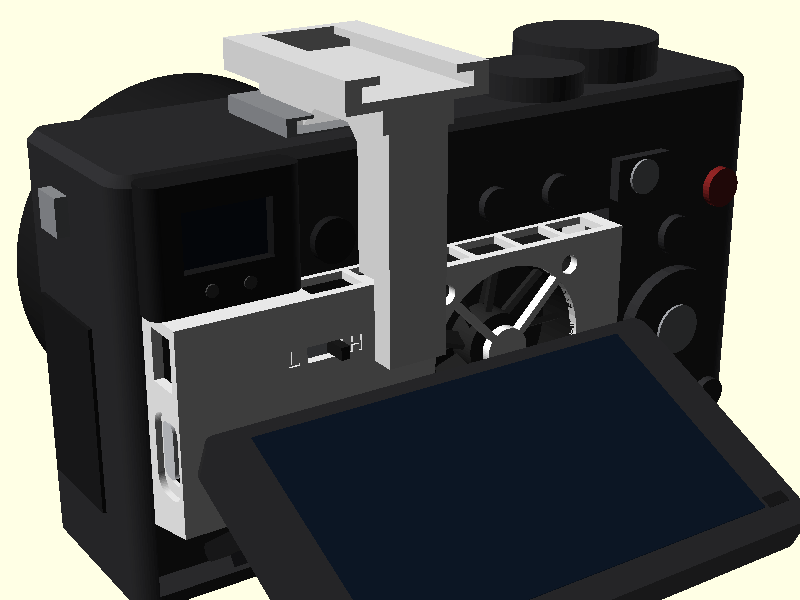
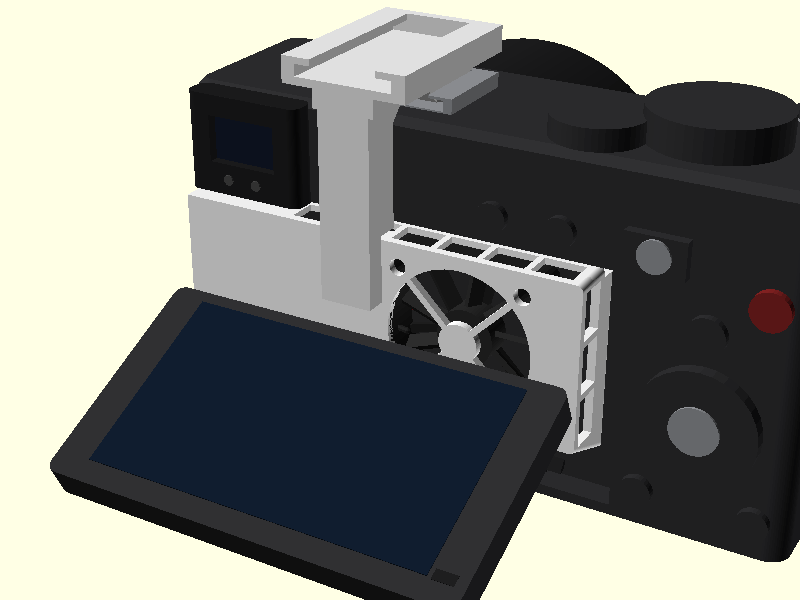
sony-a6300-fan: latch hook channel, steeper 37.5/5.5 bevel, left Off/On switch & Fit Test 2

diff --git a/sony-a6300-fan/README.md b/sony-a6300-fan/README.md
@@ -2,12 +2,13 @@
 
 A small box that sits in the screen recess on the camera's back, under the eyepiece, with the screen
 tilted out, and blows air onto the magnesium back plate for long 4K takes. It runs from USB-C on the
-cable side and has a thumbnail slide switch: Low / Off / High. A second part, a tool-free shoe arm,
+cable side at full 5 V with an Off / On mini slide switch right above the port. A second part, a tool-free shoe arm,
 slides into the flash shoe after the box is seated and locks it in place with zero screws or inserts.
 The box size comes from a cardboard test on the real camera; the shoe and button positions from caliper
-readings and photos (±2 mm). **Not printed yet.**
+readings and photos (±2 mm). The fit-test shell has been tried on the camera once ([dev/FIT-TEST.md](dev/FIT-TEST.md));
+the box itself is **not printed yet.**
 
-The camera's dual-hinge screen linkage, solid lower tilt arm, left-center flex-ribbon shelf, and `2026-11-19` top ruler positions are modelled and checked in the scene; the exhaust outlets sit outside the 5.2 mm recess and avoid the eyecup, fan housing, and flex-ribbon shelf (`313 mm²` unblocked free-air exhaust on right/top/left with `arm_mount = true`, `337 mm²` standalone, plus `181 mm²` secondary right-side bottom-back bleed vs `503 mm²` fan free area), and Option #1 from [dev/MOUNTING-NOTES.md](dev/MOUNTING-NOTES.md) (tool-free pin-and-socket slide-on shoe arm, with micro-suction + screen clamp as a zero-hardware fallback) is implemented.
+The camera's dual-hinge screen linkage, solid lower tilt arm, left-center flex-ribbon shelf, and `2026-11-19` top ruler positions are modelled and checked in the scene; the exhaust outlets sit outside the 5.2 mm recess and avoid the eyecup, fan housing, and flex-ribbon shelf (`267 mm²` unblocked free-air exhaust on right/top with `arm_mount = true`, `291 mm²` standalone, plus `161 mm²` secondary right-side bottom-back bleed vs `503 mm²` fan free area), and Option #1 from [dev/MOUNTING-NOTES.md](dev/MOUNTING-NOTES.md) (tool-free pin-and-socket slide-on shoe arm, with micro-suction + screen clamp as a zero-hardware fallback) is implemented.
 
 | On the camera | Inside (front cut away) | Side | Arm and shoe |
 |---|---|---|---|
@@ -17,21 +18,21 @@ The camera's dual-hinge screen linkage, solid lower tilt arm, left-center flex-r
 |---|---|
 | [sony-a6300-fan.scad](sony-a6300-fan.scad) | The printable box ([preview](sony-a6300-fan.png)). Parameters at the top |
 | [sony-a6300-fan-arm.scad](sony-a6300-fan-arm.scad) | Second printable part: tool-free pin-and-socket slide-on shoe arm ([preview](sony-a6300-fan-arm.png)). Locating lug engages the box's front pocket on `-Y` slide-in (zero screws/inserts). `top_mount = "shoe"`, `"quarter"` or `"none"` |
-| [dev/sony-a6300-fan-fit-test.scad](dev/sony-a6300-fan-fit-test.scad) | Thin shell with the box's outside shape, side depth marks (`2`, `4`, `5.3 mm` recess edge, `8`/`10 mm` ticks), front V-grooves (`14.5 mm` band, switch slot, arm pocket, fan grille + 4 screw holes), and 45°-beveled blind fake cutouts for every exhaust slot and the stepped USB-C port, to try on the camera first |
-| [dev/sony-a6300-fan-scene.scad](dev/sony-a6300-fan-scene.scad) | Display only: the box and arm on the camera with the fan, switch, diodes, USB-C board, wires and cable. `-D cutaway=true` |
-| [dev/a6300-camera.scad](dev/a6300-camera.scad) | Display model of the a6300 from Sony's dimensions plus calipers, `2026-11-19` ruler photos (top controls/eyecup + solid tilt arm & flex-ribbon shelf), and a photo-fitted dual-hinge LCD linkage (`~54°` arm stop, ±1–2 mm) |
+| [dev/sony-a6300-fan-fit-test.scad](dev/sony-a6300-fan-fit-test.scad) | Fit Test 2 thin shell with the box's outside shape (rounded leading end + top-back latch hook channel), real arm pocket + fused top bearing boss, staggered side depth marks (`1`, `2`, `3`, `4`, `5.3 mm` recess edge, `8`/`10 mm` ticks), built-in `5`/`10 mm` X-rulers (top-front & bottom-back) + left `+2`/`+4 mm` Z-ticks, front V-grooves (`14.5 mm` band, fan grille + 4 screw holes), and 45°-beveled blind fake cutouts for all exhaust slots, the left-wall Off/On switch slot, and the stepped USB-C port |
+| [dev/sony-a6300-fan-scene.scad](dev/sony-a6300-fan-scene.scad) | Display only: the box and arm on the camera with the fan, switch, USB-C board, wires and cable. `-D cutaway=true` |
+| [dev/a6300-camera.scad](dev/a6300-camera.scad) | Display model of the a6300 from Sony's dimensions plus calipers, `2026-11-19` ruler photos (top controls/eyecup + solid tilt arm & flex-ribbon shelf), and a photo-fitted dual-hinge LCD linkage (`~58°` arm stop, ±1–2 mm) |
 | [dev/MOUNTING-NOTES.md](dev/MOUNTING-NOTES.md) | Five brainstormed tool-free mounting options, physical constraints, and 3-criterion ranking |
+| [dev/FIT-TEST.md](dev/FIT-TEST.md) | Fit test 1 (2026-11-19): annotated observations from the 8 shell-on-camera photos, summary, and next checks |
 
 ## Parts
 
 | Part | Exact item | Size used in the model | Notes |
 |---|---|---|---|
-| Fan | **WINSINN 3007 5V, hydraulic bearing**, XH2.54 plug, 300 mm leads (Amazon) | 30 × 30 × 7, holes on 24 × 24, M3 self-tapping | 8500 rpm. Hydraulic bearings are quieter than ball bearings and fine with the axis horizontal. WINSINN publishes no airflow or noise figure. The Sofasco table below suggests ~28 dBA at full speed, so plan on quiet mode |
+| Fan | **WINSINN 3007 5V, hydraulic bearing**, XH2.54 plug, 300 mm leads (Amazon) | 30 × 30 × 7, holes on 24 × 24, M3 self-tapping | 8500 rpm. Hydraulic bearings are quieter than ball bearings and fine with the axis horizontal. WINSINN publishes no airflow or noise figure. The Sofasco table below suggests ~28 dBA at full 5 V speed — full speed maximizes airflow for this tiny fan |
 | Fan, ball-bearing alternative | GDSTIME 3007 5V dual ball (Amazon) | 30 × 30 × 7 | 9000 rpm, 4.1 CFM, "25 dBA ±10 %", 0.15 A. Longest life, but more bearing tick and hum |
 | Fan, best (if you find it) | Sunon MF30060V2-1000U-A99 | 30 × 30 × 6.5, fits the same box | 3.7 CFM at 15.7 dB(A). Distributors only (DigiKey, Mouser), often out of stock |
 | USB-C | **Adafruit 4090**, "USB Type C Breakout Board – Downstream Connection" | PCB 20.32 × 13.97 × 1.6, connector centred on the long edge, 2 × Ø2.5 holes 15.24 apart, 2.54 in from the connector edge | Numbers from Adafruit's Eagle board file. 5.1 kΩ on CC1 and CC2 (R1, R2), so C-to-C chargers give 5 V. Solder the wires to VBUS/GND, no header |
-| Switch | **SS13D07 mini slide switch, 1P3T** (3 positions, "L4" = 4 mm knob), e.g. XKB SS13D07L4B | Body 12.7 × 4.5 × 4.7, knob 4 mm, 2 mm per step | Sits in a printed cradle behind the front face, in the top band left of the arm tab & socket, and slides sideways; the knob pokes ~2.4 mm out. L and H engraved beside the slot |
-| Low-speed diodes | 2 × 1N4001 (or 1N4007) | DO-41, 5 × 2.7 mm | ~0.8 V drop each, nearly independent of current, so the fan still starts on Low |
+| Switch | **SS12D00G4 mini slide switch, 1P2T** (2 positions, Off / On, 4 mm knob) | Body 8.5 × 4.0 × 3.8, knob 4 mm, 2 mm travel | Sits in a printed cradle on the inside of the left wall directly above the USB-C board, sliding front-to-back along `Y` (Off toward camera, On toward operator); knob pokes ~2.4 mm out |
 | Fixing | 2 printed pins through the board holes (heat-staked), or M2.5 screws into the posts | | |
 
 ## Bill of materials
@@ -42,8 +43,7 @@ Prices are rough Amazon / Adafruit figures in USD. Check the listings.
 |---|---|---|---|
 | 1 | Fan | WINSINN 3007 5V **hydraulic**, XH2.54 plug, 300 mm leads (usually a 2-pack, so one spare) | $10 / 2 |
 | 1 | USB-C socket board | Adafruit 4090 USB Type C Breakout – Downstream Connection | $3 |
-| 1 | Switch | SS13D07 slide switch, 1P3T, 4 mm knob (Amazon packs are often labelled "SS13D07 3 position") | $6 / 20 |
-| 2 | Diodes (Low speed) | 1N4001 or 1N4007, DO-41 | $5 / 100 |
+| 1 | Switch | SS12D00G4 mini slide switch, 1P2T, 4 mm knob | $5 / 20 |
 | 4 | Fan screws | M3 × 8 self-tapping (front face 1.6 + fan frame 7) | from a kit |
 | 1 | Top insert (optional) | 1/4"-20 heat-set insert, for `top_mount = "quarter"` and a metal cold-shoe adapter | $8 / 10 |
 | 2 | Board screws (optional) | M2.5 × 6, if you don't heat-stake the printed pins | from a kit |
@@ -60,44 +60,41 @@ Tools: soldering iron, calipers, M3 tap or screwdriver.
 
     front (operator side)
       ┌──────┬──────────┬──────────┬───┐
-      │      │ L◦H  [ ] │          │   │   switch left of arm socket in top band; 6 mm right duct
-    ▭─┤ bay  │ chamber  │  ( fan ) │   │   USB-C out of the left wall; fan blows onto the plate
-      └──────┴──────────┴──────────┴───┘   bottom bevelled from 0 at the plate to 3 mm at the front
-    solid back rim inside the 5.2 mm recess; 3 right + 6 top + 1 upper-left windows + 4 right-side bottom-back bleed slots
+      │      │      [ ] │          │   │   arm socket in top band; 6 mm right exhaust duct
+  ▭─▭─┤ bay  │ chamber  │  ( fan ) │   │   USB-C + Off/On slide switch out of left wall; fan blows onto plate
+      └──────┴──────────┴──────────┴───┘   bottom bevelled from 0 at the plate to 5.5 mm at the front
+    solid back rim inside the 5.2 mm recess; 3 right + 6 top windows + 4 right-side bottom-back bleed slots
 
-**80 × 35 × 13 mm**, free-air exhaust `313 mm²` (right `155` + top `110` + left `47`; `337 mm²` with `arm_mount = false`: `155` + `135` + `47`) plus `181 mm²` secondary right-side bottom-back bleed (framed by a `1.6 mm` back rail behind the `7 mm` bevel, solid `X = 0..32.0` over the ribbon shelf) vs `503 mm²` fan free area.
+**80 × 37.5 × 13 mm**, free-air exhaust `267 mm²` (right `157` + top `110`; `291 mm²` with `arm_mount = false`: `157` + `135`) plus `161 mm²` secondary right-side bottom-back bleed (framed by a `1.6 mm` back rail behind the `7 mm` bevel, solid `X = 0..36.5` over the ribbon shelf and lower tilt-bracket tab) vs `503 mm²` fan free area.
 
-- **Size, from the cardboard test on the camera:** 35 mm tall against the plate (36 just squeezes in) and 32.5 mm at the
-  front in the test; the box goes to 32 (`slant_rise = 3`, about the most before the bevel reaches the fan). The
-  bottom is bevelled straight from the plate to clear the screen's hinge arm, and the inside floor follows it.
+- **Size, from cardboard & fit test 1 on the camera:** the initial shell (`35 mm` at the plate, `32 mm` at the front) left ~4 mm unused at the back above the hinge pivot ear and ~0.9 mm at the front (`~32°` arm stop). Raising the back height to `37.5 mm` and steepening the bevel to `slant_rise = 5.5` (`22.2°`) keeps the `32.0 mm` front height while tracking the opened screen carrier more closely and maintaining full floor thickness under the fan.
   The top wall is 1.2 mm so the fan sits as high as possible. The screen leaves about 14 mm of depth, so the box is 13.0 (1.6 front + 7 fan + 4.4 gap). The
-  recess is about 84 mm wide; the box is 80, placed 1 mm from its left edge.
+  recess is about 88 mm wide and open on the left; the box is 80, placed 4 mm from the camera's left edge.
 - **Layout:** the electronics bay is on the left (cable side) with a lower divider (`Y >= 5.2`, `0.17 mm` behind the USB-C PCB)
-  stopping at the USB-C centre (`usb_zc`) so the upper bay stays open for wiring and upper-left exhaust; the fan sits at
+  stopping at the USB-C centre (`usb_zc`) so the upper bay stays open for wiring; the `SS12D00G4` Off/On switch sits right above the PCB on the left wall; the fan sits at
   `X = 42.1..72.1` leaving a 6 mm exhaust duct along the right wall; the open chamber between bay and fan makes the air sweep the plate.
   The intake grille uses an open 4-spoke diagonal X-guard (`45°/135°/225°/315°`, `1.2 mm` spokes, no mid-radius ring), giving `~522 mm²`
   open intake area (`> fan free area 503 mm²`, `+10%` over the old mid-ring grille), keeping the uncovered top arc wide open, and
   staying coprime with the 9-blade impeller (`gcd(4, 9) = 1`) to avoid in-phase blade-pass whine near a mic.
-- **Noise is mostly speed.** Sofasco's datasheet for its 3007 family (same size, sleeve bearing) shows it clearly:
-  12000 rpm 35 dBA, 10000 rpm 31, 8000 rpm 26, 6000 rpm 22 (1.6 CFM). The bearing type adds tick or hum on top of that.
-  So a hydraulic bearing plus a lower speed is the quiet combination.
-- **Two speeds:** the switch is Low (left) / Off (middle) / High (right). Low feeds the fan through two diodes, about 3.4 V, roughly
-  5500 rpm and ~21 dBA by the table above. This covers whatever fan Amazon delivers: if it's loud, record on Low.
-  If it won't start on Low, use one diode (~4.2 V) or a Schottky 1N5819 pair (~4.2 V, 0.4 V each).
-  Diodes beat a resistor here: a resistor drops more voltage when the fan pulls its higher starting current.
+- **Noise vs. cooling:** Sofasco's datasheet for its 3007 family (same size, sleeve bearing) lists
+  12000 rpm 35 dBA, 10000 rpm 31, 8000 rpm 26, 6000 rpm 22 (1.6 CFM). The bearing type adds tick or hum on top of that,
+  so a hydraulic-bearing fan gives the quietest result while running at **full 5 V** to maximize airflow.
   Mount the fan with the label side (the outlet) toward the camera.
 - **Airflow & microphones:** blowing onto the plate cools better than sucking air off it. With the LCD tilted up, the screen sits right in front of the box and its solid tilt arm covers most of the recess bottom, so exhaust relies on truly unblocked free-air windows outside the `5.2 mm` recess (`Y = 5.6..11.4`) plus a secondary right-side bottom-back bleed:
-  - **Right (`+X`, `155 mm²`):** 3 × 8.93 mm wide slots (`Z = 4.0..33.2`, `1.2 mm` ribs) fed directly by the `6 mm` right exhaust duct; unobstructed out into open air.
+  - **Right (`+X`, `157 mm²`):** 3 × 9.02 mm wide slots (`Z = 6.2..35.7`, `1.2 mm` ribs) fed directly by the `6 mm` right exhaust duct; unobstructed out into open air.
   - **Top (`+Z`, `110 mm²` with `arm_mount = true`, `135 mm²` standalone):** 6 slots (`Y = 5.6..11.35`, `3.15 mm` behind the arm boss) that stay **solid** over the `24 mm` EVF eyecup / USB-C bay (`X < 22.5`):
-    - `top_l` (`X = 22.5..31.15`, `8.65 × 5.75 mm` = `50 mm²`): sits cleanly right of the `24 mm` eyecup and directly above the lowered switch cradle (`3.85 mm` clear headroom inside);
+    - `top_l` (`X = 22.5..31.15`, `8.65 × 5.75 mm` = `50 mm²`): sits cleanly right of the `24 mm` eyecup over the open mid plenum;
     - `top_m` (`X = 32.35..41.8`, `9.45 × 3.15 mm` = `30 mm²`, or `5.75 mm` = `54 mm²` standalone): vents the mid plenum cleanly behind the fused top boss & thickened arm (`Y = 5.6..8.75`, `0.25 mm` behind the arm's `-Y` face);
     - `4 × 7.70 mm` uniform right-half slots (`X = 43.0..77.4`, `1.2 mm` ribs): the left portion (`X = 43.0..72.1`) sits `0.3 mm` above the solid 3007 fan housing (excluded from the `110 mm²` unblocked count), while the rightmost slot clears the `6 mm` right duct (`X = 72.1..77.4`, `5.30 × 5.75 mm` = `30 mm²`, no rib inside the duct; keep a windscreen/deadcat on a cold-shoe mic if used).
-  - **Left (`-X`, `47 mm²`):** 1 × 8.14 mm slot above the USB-C PCB (`Z = 25.1..33.2`, `~20 mm` behind the left terminal door / `3.5 mm` mic jack). Wide slots (`rib = 1.2`) keep hydraulic diameter high for lower pressure drop and less hissing.
-  - **Bottom (`-Z`, `181 mm²` secondary bleed):** 4 × 10.30 mm right-side slots (`Y = 1.6..6.0`, `X = 32.0..76.8`), framed by a continuous `1.6 mm` connecting rail along `Y = 0..1.6` so no free-ended ribs can snag or snap when sliding past the screen linkage, behind the `7.0 mm` front bevel toward the tilt arm's bottom-right notch (`X_cam ≈ 55..73`). The left/middle bottom (`X = 0..32.0`) is kept solid so exhaust never blows onto the screen's flex-ribbon connector shelf (`X_cam ≈ 15..35`).
+  - **Bottom (`-Z`, `161 mm²` secondary bleed):** 4 × 9.18 mm right-side slots (`Y = 1.6..6.0`, `X = 36.5..76.8`), framed by a continuous `1.6 mm` connecting rail along `Y = 0..1.6` so no free-ended ribs can snag or snap when sliding past the screen linkage, behind the `7.0 mm` front bevel toward the tilt arm's wide right cut-back (`X_cam ≈ 41..82`, fit test 1 photo 6). The left/middle bottom (`X = 0..36.5`) is kept solid over the flex-ribbon shelf (`X_box ≈ 14..23`) and the lower tilt-bracket tab.
+- **Slide-in and latch hook channel ([fit test 1](dev/FIT-TEST.md), photo 1):** the recess is open at the left, so the box slides in from the cable side and its **right end goes in first**. That end must ride over the raised hinge bracket's screws, so its leading edges are rounded:
+  - `lead_r = 1.2` on its top and bevelled bottom edges (preserves full `1.2 mm` wall thickness and stays clear of the right exhaust slots);
+  - `lead_r_back = 0.8` on the vertical back edge against the plate (`0.5` on the `1.2 mm` fit-test shell).
+
+  The screen's latch pin hangs from the middle of the recess top edge (`~1 mm` from the plate, `~2–3 mm` thick, `X_box ≈ 40`). Instead of snapping over it (which stresses the tab and fights the shoe arm's `X` alignment), an open top-back hook channel (`latch_cut_x0 = 34`, `latch_y1 = 4.1`, `latch_drop = 2.0`, over the empty `air_gap` behind the fan) lets the right half glide straight underneath the pin with zero sideways contact, while the `Y = 4.1` top rim hooks the pin's front face against `+Y` tip-out. Prints support-free.
 - **USB-C:** the board stands parallel to the front face on two posts from the front wall. Outside, the left wall is
   counterbored down to 0.6 mm around the opening so the plug's overmold sits in it and the plug reaches full depth.
-- **Switch:** in the front face left of the arm tab & boss (`sw_xc = 23.65`, `X_cam ≈ 27.7`), in the top band the tilted screen never covers, `8.5 mm`
-  below the top (`sw_zc = 26.5`, `3.85 mm` below the inner roof for clear airflow under `top_l`, `8.8 mm` below the rubber eyecup, `+4.8 mm` above the `65°` LCD / `+9.3 mm` at `90°`, `~2.4 mm` knob protrusion).
+- **Switch:** in the left (`-X`) wall directly above the USB-C board (`sw_yc = 7.05`, `sw_zc = 32.0`, `5.5 mm` below the box top, `+2.0 mm` above the USB-C PCB and posts), sliding front-to-back along `Y` (`Off` toward the camera, `On` toward the operator; `+9.7 mm` above the `65°` LCD / `+14.2 mm` at `90°`, `~2.4 mm` knob protrusion). Because the left end of the recess is open (Fit Test 1), the switch sits in full view and clears the eyecup completely.
 - **Eye sensor:** it sits on the eyepiece, right above the box. Set *FINDER/MONITOR → Monitor (manual)*.
 - **Mounting: tool-free pin-and-socket slide-on shoe arm** ([sony-a6300-fan-arm.scad](sony-a6300-fan-arm.scad), [close-up](dev/scene-mount.png), [dev/MOUNTING-NOTES.md](dev/MOUNTING-NOTES.md)).
   After sliding the box into the screen recess, slide the arm `-Y` into the camera's flash shoe:
@@ -115,7 +112,7 @@ Both are manifold and print **without supports** (checked with `tools/stl-check.
 
 | Part | On the bed | Watch |
 |---|---|---|
-| Box | Front face (grille) down, open back up | Short horizontal bridges only: 7.7–10.3 mm over the exhaust windows (`8.9 mm` right, `8.7` / `9.5` / `7.7 mm` top, `8.1 mm` left bridged by the solid back rim, plus `10.3 mm` across the 4 bottom-back slots along the `1.6 mm` connecting back rail), 6–8 mm over the USB-C opening. The fused top bearing boss, posts, switch cradle and lower bay divider grow straight up from the front plate and top wall with zero bridges or overhangs |
+| Box | Front face (grille) down, open back up | Short horizontal bridges only: 7.7–9.5 mm over the exhaust windows (`9.0 mm` right, `8.7` / `9.5` / `7.7 mm` top, `9.2 mm` across the 4 bottom-back slots along the `1.6 mm` connecting back rail), 6–8 mm over the USB-C opening, `4.2 mm` over the left switch cradle back stop and `2.0 mm` over the switch knob slot. The fused top bearing boss, posts, switch cradle, lower bay divider and open `Y = 4.1` latch hook step grow straight up from the front plate and walls with zero overhangs |
 | Arm | Lying flat on its back (`+Y` tab/bridge/top-block face down, `-Y` up) | Zero faces flatter than 45° (`tools/stl-check.py`): continuous XY perimeters wrap the bridge-to-tab corner for bending strength, the flat-top / 45°-bottom-ramped lug grows straight up support-free off the tab, and the 45° rear foot taper eliminates the old `3.2 mm` foot flange overhangs and `18.8 mm` cold-shoe ceiling bridge (only a small front-stop bridge remains on the top cold shoe) |
 
 PETG or ASA, 0.2 mm layers, 3 perimeters. Print the fit-test shell and the arm first: check the shell on the camera and the foot in the shoe.
@@ -123,9 +120,8 @@ PETG or ASA, 0.2 mm layers, 3 perimeters. Print the fit-test shell and the arm f
 ## Wiring
 
     USB-C VBUS ── switch common
-                  switch H  ─────────────────────── fan red (+)   High, 5 V
-                  switch L  ──|>|──|>|── fan red (+)              Low, ~3.4 V  (2 × 1N4001, band toward the fan)
-    USB-C GND  ─────────────────────────── fan black (−)
+                  switch On ── fan red (+)   (full 5 V)
+    USB-C GND  ─────────────── fan black (−)
     CC1, CC2   ── 5.1 kΩ ── GND   (already on the Adafruit board)
 
 ## Facts gathered
@@ -161,19 +157,23 @@ on **thermal tape** under the fan may add a little. Plain double-sided tape insu
 | Top band under the eyepiece where the screen never reaches, at any depth | 14.5–15 | – |
 | Recess right edge from the eyepiece-side end (photo, ruler) | ~87 | 77 |
 | Shoe centre from the eyepiece-side end (from photo scale, ±1.5) | ~41 | 52 |
-| Dual-hinge LCD linkage (side photo + cardboard fit, ±1–2) | lower arm ~29.5 mm, mechanical stop ~54° from vertical, upper pivot ~12 mm below LCD top | single bottom hinge |
+| Dual-hinge LCD linkage (side photos + fit test 1) | lower arm ~29.5 mm, mechanical stop ~58° from vertical (~32° above horiz), max LCD tilt ~66–68° (photo 4), upper pivot ~12 mm below LCD top | ~54° stop |
 | Top strip controls & eyecup (`2026-11-19` ruler photo) | eyecup `~24 mm` (`X_cam ≈ 2.5..26.5`), diopter `~33.5`, flash `~63.5`, MENU `~76.2`, recess right `~88` | eyecup `3..30`, diopter `35.5`, flash `62`, MENU `73`, recess `87` |
-| Tilted LCD lower bracket (`2026-11-19` ruler photo) | solid tilt arm with raised left-center flex-ribbon shelf (`X_cam ≈ 15..35`) and small bottom-right notch (`X_cam ≈ 55..73`) | open dual cutouts |
+| Tilted LCD lower bracket (`2026-11-19` ruler photo + fit test 1 photo 6) | solid tilt arm with raised left-center flex-ribbon shelf (`X_box ≈ 14..23`) and wide right cut-back from `X_box ≈ 36.7` (`X_cam ≈ 41`) to the right hinge | small bottom-right notch (`55..73`) |
+| Screen latch pin & open left recess (fit test 1) | left end of recess open (no 5.2 mm left wall); latch pin `~5 mm` wide at `X_box ≈ 40` (`~1.5–2.5 mm` right of shoe center), `~1 mm` from plate, `~2–3 mm` thick, `~1.2 mm` hang | closed left recess (`X = 3`), unmodelled pin |
 
 ## Open / unproven
 
-- **Tilted screen clearances & partial intake:** Modelled dual-hinge clearances at `lcd_tilt = 65°` (`arm = 54°`): `front = +1.5 mm` (`+0.4 mm` at `90°`), `bevel = +0.5 mm`, `switch_above_lcd = +4.8 mm` (`+9.3 mm` at `90°`), `tab_above_lcd = +2.5 mm` (`+7.0 mm` at `90°`). `12.0 mm` of the `28 mm` grille sits completely above `lcd_tf` (`17.8 mm` above `lcd_tb`; `16.5 mm` / `22.9 mm` at `90°`); the lower half draws through the side wedge behind the screen, reducing airflow below the fan rating by an unknown amount.
-- **Airflow, recirculation & noise (untested on hardware):** Thermal effectiveness of blowing into the `4.4 mm` plate gap, warm-air recirculation behind the tilted screen, cold-shoe mic wind noise over the top vents, actual WINSINN 3007 hydraulic noise, and Low-mode startup at `~3.4 V` with two `1N4001` diodes (fallback: one diode).
-- **Mounting & photo tolerances (±1–2 mm):** Shoe-spring friction retention (`foot_rib_h = 0.2 mm`), thumb reach to the switch under the eyecup, and lug-to-socket alignment (`mount[0] = 41 mm` in the model vs `~43–44 mm` in the `2026-11-19` top ruler photo — verify with the fit-test shell's front pocket scribe marks and adjust `arm_xc` if needed).
+- **Fit test 1 follow-ups ([dev/FIT-TEST.md](dev/FIT-TEST.md)):**
+  - Confirmed on camera: photo 4 is max tilt (no screen collision); photo 2's "+2 mm shoe offset" was parallax (photo 8 shows shoe `~1 mm` left of pocket); bracket cut-back starts at `X_box ≈ 36.7`.
+  - Still to verify with the printed shoe arm ([sony-a6300-fan-arm.scad](sony-a6300-fan-arm.scad)): lug-to-pocket alignment in **X and Z**, shoe-spring friction hold (`foot_rib_h = 0.2 mm`), and whether the arm alone prevents `-X` slide-out from the open left recess.
+  - Still to verify on Fit Test 2 ([dev/sony-a6300-fan-fit-test.scad](dev/sony-a6300-fan-fit-test.scad)): `37.5 / 5.5` bottom bevel clearance across hinge travel, `Y = 0..4.1` latch hook channel clearing the pin without contact and damping `+Y` wobble, and finger reach to the left-wall Off/On switch above USB-C.
+- **Tilted screen clearances & partial intake:** Modelled dual-hinge clearances at `lcd_tilt = 65°` (`arm = 58°`): `front = +2.6 mm` (`+1.5 mm` at `90°`), `bevel = +1.7 mm`, `switch_above_lcd = +9.7 mm` (`+14.2 mm` at `90°`), `tab_above_lcd = +4.2 mm` (`+8.7 mm` at `90°`). `13.7 mm` of the `28 mm` grille sits completely above `lcd_tf` (`19.5 mm` above `lcd_tb`; `18.2 mm` / `24.6 mm` at `90°`); the lower half draws through the side wedge behind the screen, reducing airflow below the fan rating by an unknown amount.
+- **Airflow, recirculation & noise (untested on hardware):** Thermal effectiveness of blowing into the `4.4 mm` plate gap, warm-air recirculation behind the tilted screen, cold-shoe mic wind noise over the top vents, and actual WINSINN 3007 hydraulic noise at full 5 V.
 
 ## Steps
 
-1. Print the fit-test shell ([dev/sony-a6300-fan-fit-test.scad](dev/sony-a6300-fan-fit-test.scad), ~15 min) and the arm ([sony-a6300-fan-arm.scad](sony-a6300-fan-arm.scad)) first: verify recess fit, hinge bevel clearance, shoe friction retention, lug-to-socket alignment against the front pocket scribe marks, every exhaust/USB-C fake cutout position relative to the eyecup, terminal door, and ribbon shelf, and thumb reach to the switch under the eyecup.
+1. Print Fit Test 2 ([dev/sony-a6300-fan-fit-test.scad](dev/sony-a6300-fan-fit-test.scad), ~15 min — `37.5 / 5.5` bevel, `Y = 0..4.1` latch hook channel, real arm pocket + bearing boss, beveled left-wall Off/On switch cutout, and built-in millimeter ruler ticks) and the shoe arm ([sony-a6300-fan-arm.scad](sony-a6300-fan-arm.scad)) first, and fill in the [Fit Test 2 measurement sheet](dev/FIT-TEST.md#fit-test-2-measurement-sheet): lug-to-socket X/Z fit, shoe friction & `-X` hold, latch pin `Y0..Y1` clearance & `+Y` wobble damping, bevel clearance, bottom bracket step & ribbon edges, and left-wall switch reach / USB-C exit.
 2. Check that the screen still tilts up far enough to see from above without crossing the `14.5 mm` scribe line.
 3. Order the parts above, plus a short right-angle C-to-C cable (no M3 arm screws or inserts needed).
 4. Print the box, wire it, fit it.

diff --git a/sony-a6300-fan/dev/MOUNTING-NOTES.md b/sony-a6300-fan/dev/MOUNTING-NOTES.md
@@ -4,11 +4,11 @@ Why screwing a shoe arm to the box is awkward, the 5 tool-free alternatives cons
 
 ## Physical constraints
 
-Once seated in the camera's `5.2 mm` deep screen recess (`X = 4..84 mm`), five of the box's six degrees of freedom are constrained by the body and screen:
+Once seated in the camera's `5.2 mm` deep screen recess (`X = 0..88 mm`, open on the left end), four of the box's six degrees of freedom are constrained by the body and screen:
 
 - `-Y` (forward): magnesium back plate
-- `+Z` (up): EVF eyepiece and top frame
-- `±X` (left / right): recess side walls
+- `+Z` (up): EVF eyepiece and top frame (plus the top-back latch hook channel at `Y = 4.1` helping resist `+Y` wobble)
+- `+X` (right): right recess wall (the left end is open, so `-X` relies on the shoe arm)
 - `-Z` (down): LCD hinge arm (when the screen is tilted up)
 
 Only `+Y` (falling backward out of the recess) and `-Z` (when the screen is folded down) need retention. Because the tilted-up screen blocks pushing the box straight forward (`-Y`), the box enters from the side or with the screen lowered, whereas a hot-shoe foot must slide straight forward (`-Y`) into the Multi Interface Shoe. Screwing the arm to the box after seating requires tools on every install/removal, and a **one-piece slide-in** (arm built into the box, pushed `-Y` into the shoe as the box seats) is ruled out because the screen cannot clear `-Y` entry (a one-piece holder would need sideways entry, e.g. a dovetail).
@@ -17,7 +17,7 @@ Only `+Y` (falling backward out of the recess) and `-Z` (when the screen is fold
 
 ### 1. Tool-free pin-and-socket slide-on shoe arm (implemented)
 - **Mechanism:** Seat the box in the recess first, then slide the shoe arm straight forward (`-Y`) into the hot shoe. The arm's `4 mm` drop-tab stays inside the `14.5 mm` screen-free top band (thickening to `8.2 mm` above the box top with a `3.0 mm` 45° bridge gusset) and carries a `6 × 6 mm` locating lug (`4.2 mm` long) with a flat horizontal load-bearing top shelf (`3.4 mm` bearing inside the socket + `0.6 mm` top/side tip lead-in chamfers) and a 45° bottom ramp. During the last ~4 mm of hot-shoe travel, it engages a `6.5 × 6.5 mm` pocket through the front plate backed by a **fused top bearing boss** (`2.6 mm` deep behind the `1.6 mm` plate = `4.2 mm` total bearing depth, `0.8 mm` past the flat lug shelf and `0.2 mm` past the lug tip, fused `2.55 mm` solid up into the top wall with no side or bottom collar walls). Tapered underside ribs on the ISO 518 foot engage the camera shoe's leaf spring for friction retention, while back-down printing puts continuous XY layers around the bridge-to-tab corner.
-- **Pros:** Zero screws or heat-set inserts, 2-second attach/detach, positive 6-DOF lock in pure vertical shear (no backward wedging force) even when the screen moves, preserves a passive cold shoe on top and `313 mm²` of 100%-unblocked free-air exhaust (`337 mm²` standalone, plus `181 mm²` secondary right-side bottom-back bleed framed by a `1.6 mm` back rail; 6 top slots sit cleanly right of the `24 mm` eyecup above the lowered switch cradle, behind the fused top boss at `Y = 5.6..8.75`, and across the fan & right exhaust duct).
+- **Pros:** Zero screws or heat-set inserts, 2-second attach/detach, positive 6-DOF lock in pure vertical shear (no backward wedging force) even when the screen moves, preserves a passive cold shoe on top and `267 mm²` of 100%-unblocked free-air exhaust (`291 mm²` standalone, plus `161 mm²` secondary right-side bottom-back bleed framed by a `1.6 mm` back rail; 6 top slots sit cleanly right of the `24 mm` eyecup over the open mid plenum, behind the fused top boss at `Y = 5.6..8.75`, and across the fan & right exhaust duct).
 - **Cons:** Occupies the camera's electronic MI shoe (blocks MI-interface mics/flashes), 2 parts when packed.
 
 ### 2. Micro-suction / washable silicone pads + screen clamp (zero-hardware fallback)
